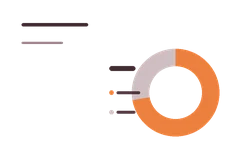
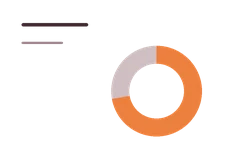
Żwawa miniatura #4: wolniejsze, wyraźne zamykanie sejfu, reflektory nad miastem w biurze CEO, czytelniejsze slajdy (wyraźna lista, duży donut), laptopy kursantów parami

Changed region(s): [[0.4234, 0.2778, 0.9032, 0.8642]]

diff --git a/components/diorama/Ambient.tsx b/components/diorama/Ambient.tsx
@@ -365,7 +365,7 @@ function Sparkles({ lite }: { lite?: boolean }) {
  * Sejf: jeden stan "otwarcia" p ∈ [0,1] (0 = drzwi uchylone jak w grafice, 1 = otwarte na oścież),
  * który zawsze płynnie dąży do celu: cel = otwarty w oknie cyklu (co 19 s) albo gdy kursor jest nad
  * pokojem. Dzięki temu hover i zegar nigdy się nie gryzą, a zamykanie po zjechaniu kursorem
- * zaczyna się z bieżącej fazy (bez przeskoku). Faza 0–0.4: koło robi pełny obrót, od 0.22: drzwi
+ * zaczyna się z bieżącej fazy (bez przeskoku). Faza 0–0.35: koło robi pełny obrót, od 0.12: drzwi
  * (nakładają się, więc drzwi ruszają szybko). Sam otwiera się co 13 s na ~4.4 s; po interakcji kursorem
  * własny cykl odczekuje 9 s (drzwi nie odbijają z powrotem zaraz po zamknięciu).
  */
@@ -373,11 +373,11 @@ const VAULT_EVERY = 13000 // co ile sam się otwiera (ms)
 const VAULT_HOLD = 4400 // ile stoi otwarty
 const VAULT_QUIET = 9000 // po interakcji kursorem: tyle spokoju, zanim otworzy się sam
 const VAULT_SPEED = 1 / 2300 // pełne otwarcie ≈ 2.3 s (cykl)
-const VAULT_SPEED_HOT = 1 / 1200 // przy kursorze szybciej (w obie strony)
+const VAULT_SPEED_HOT = 1 / 1500 // przy kursorze trochę szybciej (w obie strony), ale z widocznym ruchem drzwi
 const vault = { p: 0, t: -1, tw: 0, nextOpen: 6200, openUntil: 0, lastHot: -1e9, subs: new Set<(p: number) => void>() }
 const clamp01 = (v: number) => (v < 0 ? 0 : v > 1 ? 1 : v)
 const easeIO = (v: number) => (v < 0.5 ? 4 * v * v * v : 1 - Math.pow(-2 * v + 2, 3) / 2)
-const vaultDoor = (p: number) => easeIO(clamp01((p - 0.22) / 0.78))
+const vaultDoor = (p: number) => easeIO(clamp01((p - 0.12) / 0.88))
 function stepVault(t: number, hot: boolean) {
   const dt = vault.t < 0 ? 0 : Math.min(100, t - vault.t)
   vault.t = t
@@ -414,7 +414,7 @@ function VaultArt({ run, hot }: { run: boolean; hot?: boolean }) {
     const apply = (p: number) => {
       const d = vaultDoor(p)
       if (door.current) door.current.style.transform = `perspective(320cqw) rotateY(${(-78 * d).toFixed(2)}deg)`
-      if (wheel.current) wheel.current.style.transform = `rotate(${(-360 * easeIO(clamp01(p / 0.4)) - vault.tw).toFixed(1)}deg)`
+      if (wheel.current) wheel.current.style.transform = `rotate(${(-360 * easeIO(clamp01(p / 0.35)) - vault.tw).toFixed(1)}deg)`
       if (shade.current) shade.current.style.opacity = (0.55 * d).toFixed(3)
     }
     apply(vault.p)
@@ -575,8 +575,8 @@ function Laptops() {
             height: `${h}%`,
             borderRadius: '6%',
             background: i % 2 ? 'rgba(255,150,70,1)' : 'rgba(255,184,96,1)',
-            boxShadow: '0 0 1cqw rgba(255,170,90,0.8)',
-            animationDelay: sec([0, 3.1, 1.4, 4.6, 2.2, 5.3][i]),
+            boxShadow: '0 0 2cqw 0.6cqw rgba(255,170,90,0.75)',
+            animationDelay: sec([0, 3.2, 1.6, 0.05, 3.25, 1.65][i]),
           }}
         />
       ))}
@@ -690,9 +690,29 @@ function OfficeSky() {
         }}
       />
       <div className="absolute overflow-hidden" style={{ ...box(o.sky), WebkitMaskImage: m, maskImage: m, WebkitMaskSize: '100% 100%', maskSize: '100% 100%' }}>
+        {/* dwa reflektory z miasta omiatają niebo (wolno, w przeciwnych kierunkach) */}
+        {[0, 1].map((k) => (
+          <span
+            key={k}
+            className="amb-searchlight absolute mix-blend-screen"
+            style={{
+              left: k ? '70%' : '28%',
+              top: '100%',
+              width: '14%',
+              height: '260%',
+              transformOrigin: '50% 100%',
+              translate: '-50% -100%',
+              animationDuration: k ? '9s' : '11s',
+              animationDelay: k ? '-4s' : '0s',
+              animationDirection: k ? 'alternate-reverse' : 'alternate',
+              background: 'linear-gradient(0deg, rgba(200,220,255,0.55), rgba(200,220,255,0.2) 55%, transparent)',
+              clipPath: 'polygon(42% 100%, 58% 100%, 100% 0, 0 0)',
+            }}
+          />
+        ))}
         <span
           className="amb-meteor absolute mix-blend-screen"
-          style={{ left: '70%', top: '6%', width: '42%', height: '8%', background: 'linear-gradient(90deg, rgba(255,255,255,1), rgba(220,235,255,0.7) 20%, rgba(200,220,255,0.25) 55%, transparent)', borderRadius: 9, boxShadow: '0 0 1cqw rgba(220,235,255,0.6)' }}
+          style={{ left: '70%', top: '6%', width: '55%', height: '10%', background: 'linear-gradient(90deg, rgba(255,255,255,1), rgba(220,235,255,0.7) 20%, rgba(200,220,255,0.25) 55%, transparent)', borderRadius: 9, boxShadow: '0 0 1cqw rgba(220,235,255,0.6)' }}
         />
       </div>
       <Halo c={o.lamp} r={11} color="255,190,110" dur={3.6} lo={0.15} />
@@ -782,6 +802,13 @@ function Slides() {
       <Img src="slide-3b" className="amb-s3b absolute inset-0 w-full h-full" />
       <Img src="slide-4" className="amb-s4 absolute inset-0 w-full h-full" />
       {/* czerwona kropka wskaźnika laserowego prowadzącego — wędruje po treści slajdu */}
+      {[0.12, 0.06].map((d, k) => (
+        <span
+          key={k}
+          className="amb-laser absolute rounded-full mix-blend-screen"
+          style={{ left: 0, top: 0, width: '12%', aspectRatio: '1', animationDelay: `${-d}s`, scale: `${0.55 + k * 0.2}`, filter: `opacity(${0.35 + k * 0.25})`, background: 'radial-gradient(circle, rgba(255,60,60,1) 14%, rgba(255,20,20,0.4) 36%, transparent 64%)' }}
+        />
+      ))}
       <span
         className="amb-laser absolute rounded-full mix-blend-screen"
         style={{ left: 0, top: 0, width: '12%', aspectRatio: '1', background: 'radial-gradient(circle, rgb(255,255,255) 9%, rgb(255,20,20) 20%, rgba(255,20,20,0.55) 34%, rgba(255,20,20,0.18) 52%, transparent 70%)' }}

diff --git a/app/globals.css b/app/globals.css
@@ -737,7 +737,7 @@ body.founder-mode {
 }
 /* okna: poświata zapalonego okna (screen) */
 .amb-winglow { opacity: 0; animation: amb-winglow 12s steps(1, end) infinite; }
-@keyframes amb-winglow { 0% { opacity: 1; } 45% { opacity: 0; } 100% { opacity: 0; } }
+@keyframes amb-winglow { 0% { opacity: 1; } 55% { opacity: 0; } 100% { opacity: 0; } }
 /* światło ostrzegawcze na wieżowcu: podwójne mrugnięcie */
 .amb-beacon { opacity: .1; animation: amb-beacon 1.8s steps(1, end) infinite; }
 @keyframes amb-beacon { 0% { opacity: 1; } 14% { opacity: .1; } 26% { opacity: 1; } 42%, 100% { opacity: .1; } }
@@ -760,8 +760,8 @@ body.founder-mode {
   76%, 100% { opacity: 0; transform: translateY(-120%); }
 }
 /* laptopy kursantów: krótki błysk ekranu co 6.4 s, każdy z innym opóźnieniem */
-.amb-laptop { opacity: 0; animation: amb-laptop 6.4s steps(1, end) infinite; }
-@keyframes amb-laptop { 0% { opacity: .9; } 6% { opacity: .3; } 9% { opacity: .9; } 22%, 100% { opacity: 0; } }
+.amb-laptop { opacity: 0; animation: amb-laptop 4.8s steps(1, end) infinite; }
+@keyframes amb-laptop { 0% { opacity: 1; } 8% { opacity: .35; } 12% { opacity: 1; } 30%, 100% { opacity: 0; } }
 /* webinar: wskaźnik laserowy (20 s, zsynchronizowany ze slajdami): wodzi po schemacie, słupkach, liście i donucie */
 .amb-laser { opacity: 0; animation: amb-laser 20s cubic-bezier(.4, 0, .2, 1) infinite; }
 @keyframes amb-laser {
@@ -806,3 +806,6 @@ body.founder-mode {
   100% { opacity: 0; transform: translate(287%, 196%); }
 }
 
+/* reflektory nad miastem: powolne wahadło */
+.amb-searchlight { animation: amb-searchlight 10s ease-in-out infinite alternate; }
+@keyframes amb-searchlight { from { transform: rotate(-38deg); } to { transform: rotate(34deg); } }
